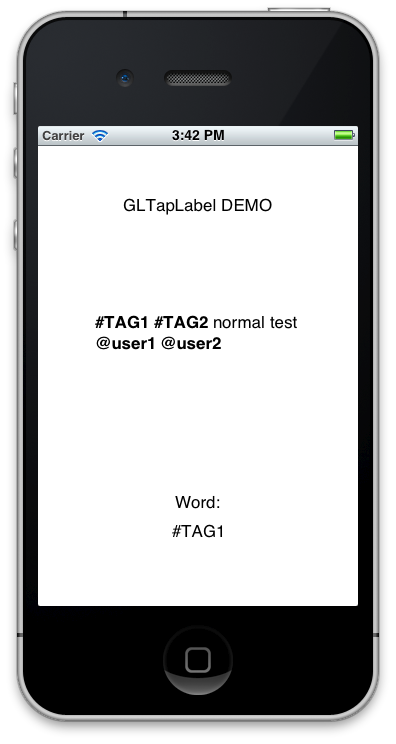
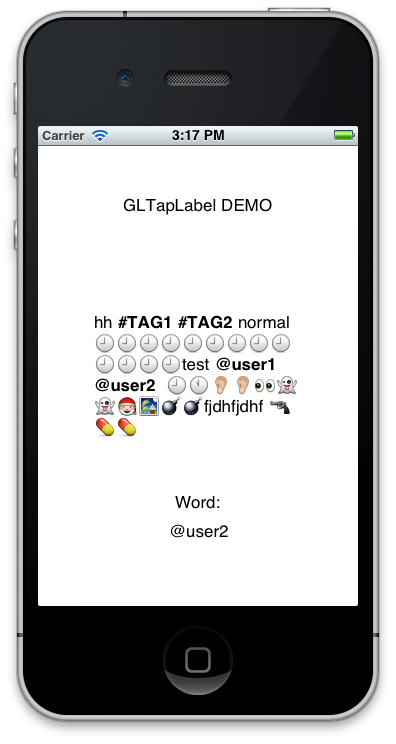
support symbols

Changed region(s): [[0.2424, 0.4019, 0.7576, 0.5874], [0.4242, 0.6801, 0.5758, 0.7419], [0.4545, 0.1546, 0.5152, 0.1855]]

diff --git a/GLTapLabelDemo/GLTapLabel.m b/GLTapLabelDemo/GLTapLabel.m
@@ -40,25 +40,40 @@
         [hotWords removeAllObjects];
     }
     
-    NSArray *words = [self.text componentsSeparatedByString:@" "];
-    
     CGSize space = [@" " sizeWithFont:self.font constrainedToSize:rect.size lineBreakMode:self.lineBreakMode];
     __block CGPoint drawPoint = CGPointMake(0,0);
-    
-    [words enumerateObjectsUsingBlock:^(NSString *word, NSUInteger idx, BOOL *stop) {
-        BOOL hot = [word hasPrefix:@"#"] || [word hasPrefix:@"@"];
-        UIFont *f= hot ? hotFont : self.font;
-        CGSize s = [word sizeWithFont:f constrainedToSize:rect.size lineBreakMode:self.lineBreakMode];
-        if(drawPoint.x + s.width > rect.size.width) {
-            drawPoint = CGPointMake(0, drawPoint.y + s.height);
+    NSString *read;
+    NSScanner *s = [NSScanner scannerWithString:self.text];
+    while ([s scanUpToCharactersFromSet:[NSCharacterSet symbolCharacterSet] intoString:&read]) {
+        NSArray *words = [read componentsSeparatedByCharactersInSet:[NSCharacterSet whitespaceAndNewlineCharacterSet]];
+        [words enumerateObjectsUsingBlock:^(NSString *word, NSUInteger idx, BOOL *stop) {
+            BOOL hot = [word hasPrefix:@"#"] || [word hasPrefix:@"@"];
+            UIFont *f= hot ? hotFont : self.font;
+            CGSize s = [word sizeWithFont:f];
+            if(drawPoint.x + s.width > rect.size.width) {
+                drawPoint = CGPointMake(0, drawPoint.y + s.height);
+            }
+            [word drawAtPoint:drawPoint withFont:f];
+            if(hot){
+                [hotZones addObject:[NSValue valueWithCGRect:CGRectMake(drawPoint.x, drawPoint.y, s.width, s.height)]];
+                [hotWords addObject:word];
+            }
+            drawPoint = CGPointMake(drawPoint.x + s.width + space.width, drawPoint.y);
+        }];
+        
+        while ([s scanCharactersFromSet:[NSCharacterSet symbolCharacterSet] intoString:&read]) {
+            for(int idx=0;idx<read.length;idx=idx+2)
+            {
+                NSString *word=[read substringWithRange:NSMakeRange(idx, 2)];
+                CGSize s = [word sizeWithFont:self.font];
+                if(drawPoint.x + s.width > rect.size.width) {
+                    drawPoint = CGPointMake(0, drawPoint.y + s.height);
+                }
+                [word drawAtPoint:drawPoint withFont:self.font];
+                drawPoint = CGPointMake(drawPoint.x + s.width, drawPoint.y);
+            }
         }
-        [word drawAtPoint:drawPoint withFont:f];
-        if(hot){
-            [hotZones addObject:[NSValue valueWithCGRect:CGRectMake(drawPoint.x, drawPoint.y, s.width, s.height)]];
-            [hotWords addObject:word];
-        }
-        drawPoint = CGPointMake(drawPoint.x + s.width + space.width, drawPoint.y);
-    }];
+    }
 }
 
 -(void)touchesEnded:(NSSet *)touches withEvent:(UIEvent *)event
